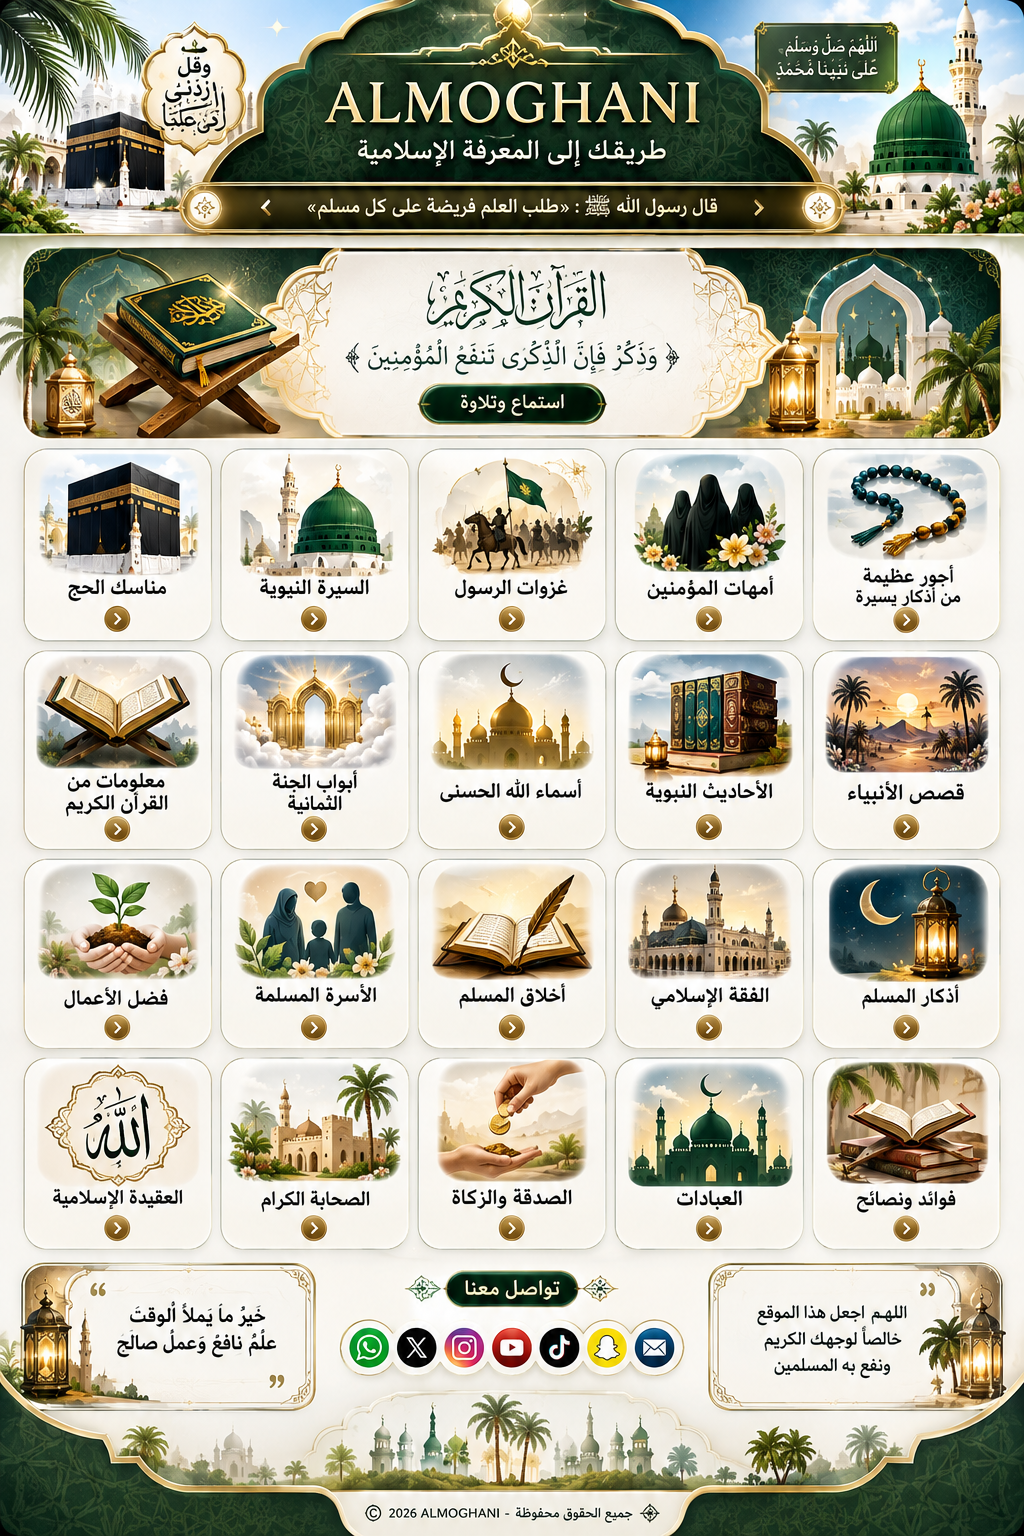
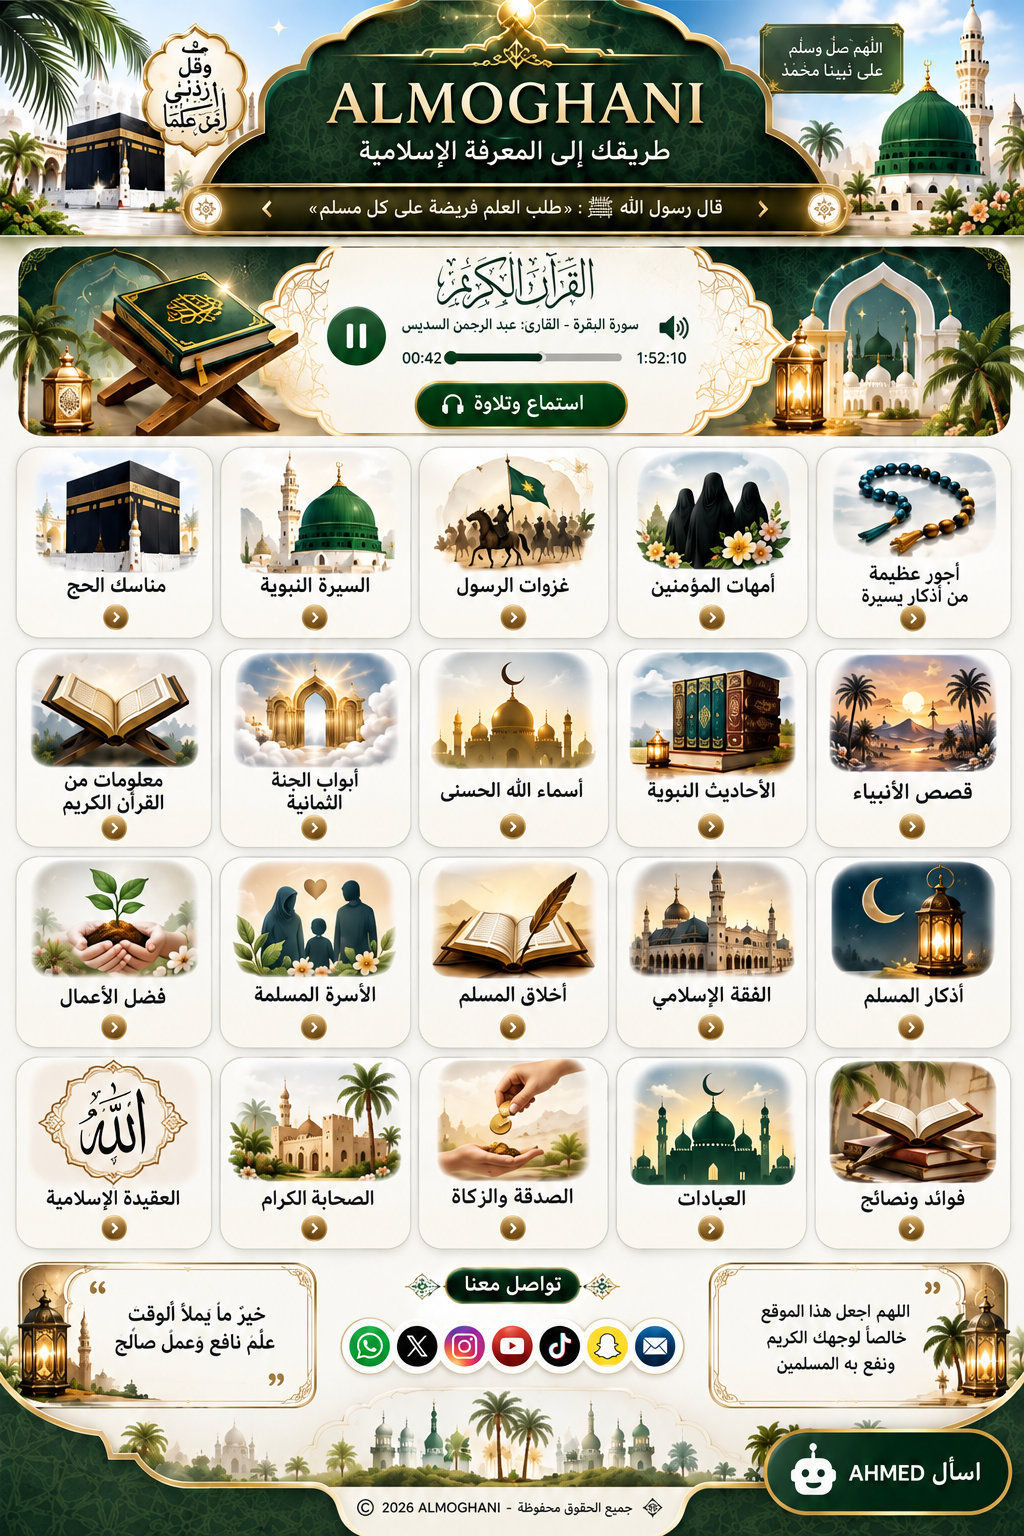
Add files via upload

Changed region(s): [[0.0, 0.0, 1.0, 1.0], [0.0, 0.9688, 0.0312, 1.0], [0.0, 0.375, 0.0312, 0.4062]]

diff --git a/index.html b/index.html
@@ -10,64 +10,44 @@ html,body{margin:0;background:#f5f0e6}
 main{position:relative;width:min(100%,1024px);margin:auto}
 img{display:block;width:100%;height:auto}
 .hot{position:absolute;display:block;z-index:5;border-radius:18px;-webkit-tap-highlight-color:transparent}
-.hot:focus{outline:2px solid rgba(194,145,40,.55);outline-offset:-2px}
-.ai-chat-btn{position:fixed;right:18px;bottom:18px;z-index:9999;display:flex;align-items:center;gap:8px;padding:12px 17px;border:2px solid #c29128;border-radius:999px;background:#07583f;color:#fff;text-decoration:none;font:700 15px Tahoma,Arial,sans-serif;box-shadow:0 8px 24px rgba(0,0,0,.22);-webkit-tap-highlight-color:transparent}
-.ai-chat-btn:active{transform:scale(.97)}
-.ai-chat-btn .icon{font-size:20px}
+.ai-chat-btn{position:fixed;right:18px;bottom:18px;z-index:9999;display:flex;align-items:center;gap:8px;padding:12px 17px;border:2px solid #c29128;border-radius:999px;background:#07583f;color:#fff;text-decoration:none;font:700 15px Tahoma,Arial,sans-serif;box-shadow:0 8px 24px rgba(0,0,0,.22)}
 </style>
 </head>
-<body><main>
+<body>
+<main>
 <img src="design.png" alt="ALMOGHANI">
-<a class="hot" href="section-01.html" aria-label="القسم 1" style="left:2.4%;top:29.3%;width:18.3%;height:12.3%"></a>
-<a class="hot" href="section-02.html" aria-label="القسم 2" style="left:21.8%;top:29.3%;width:18.3%;height:12.3%"></a>
-<a class="hot" href="section-03.html" aria-label="القسم 3" style="left:41.2%;top:29.3%;width:18.3%;height:12.3%"></a>
-<a class="hot" href="section-04.html" aria-label="القسم 4" style="left:60.6%;top:29.3%;width:18.3%;height:12.3%"></a>
-<a class="hot" href="section-05.html" aria-label="القسم 5" style="left:80%;top:29.3%;width:17.6%;height:12.3%"></a>
-<a class="hot" href="section-06.html" aria-label="القسم 6" style="left:2.4%;top:42.4%;width:18.3%;height:12.3%"></a>
-<a class="hot" href="section-07.html" aria-label="القسم 7" style="left:21.8%;top:42.4%;width:18.3%;height:12.3%"></a>
-<a class="hot" href="section-08.html" aria-label="القسم 8" style="left:41.2%;top:42.4%;width:18.3%;height:12.3%"></a>
-<a class="hot" href="section-09.html" aria-label="القسم 9" style="left:60.6%;top:42.4%;width:18.3%;height:12.3%"></a>
-<a class="hot" href="section-10.html" aria-label="القسم 10" style="left:80%;top:42.4%;width:17.6%;height:12.3%"></a>
-<a class="hot" href="section-11.html" aria-label="القسم 11" style="left:2.4%;top:55.8%;width:18.3%;height:12.3%"></a>
-<a class="hot" href="section-12.html" aria-label="القسم 12" style="left:21.8%;top:55.8%;width:18.3%;height:12.3%"></a>
-<a class="hot" href="section-13.html" aria-label="القسم 13" style="left:41.2%;top:55.8%;width:18.3%;height:12.3%"></a>
-<a class="hot" href="section-14.html" aria-label="القسم 14" style="left:60.6%;top:55.8%;width:18.3%;height:12.3%"></a>
-<a class="hot" href="section-15.html" aria-label="القسم 15" style="left:80%;top:55.8%;width:17.6%;height:12.3%"></a>
-<a class="hot" href="section-16.html" aria-label="القسم 16" style="left:2.4%;top:69%;width:18.3%;height:12.3%"></a>
-<a class="hot" href="section-17.html" aria-label="القسم 17" style="left:21.8%;top:69%;width:18.3%;height:12.3%"></a>
-<a class="hot" href="section-18.html" aria-label="القسم 18" style="left:41.2%;top:69%;width:18.3%;height:12.3%"></a>
-<a class="hot" href="section-19.html" aria-label="القسم 19" style="left:60.6%;top:69%;width:18.3%;height:12.3%"></a>
-<a class="hot" href="section-20.html" aria-label="القسم 20" style="left:80%;top:69%;width:17.6%;height:12.3%"></a>
-<a class="hot" href="quran.html" aria-label="القرآن الكريم" style="left:23%;top:16%;width:54%;height:12.5%"></a>
-<a class="hot" href="https://wa.me/966557073007" aria-label="واتساب" style="left:33%;top:84.2%;width:5%;height:4%"></a>
-<a class="hot" href="https://x.com/op430" aria-label="X" style="left:38.5%;top:84.2%;width:5%;height:4%"></a>
-<a class="hot" href="https://instagram.com/aaaaa287769" aria-label="إنستجرام" style="left:44%;top:84.2%;width:5%;height:4%"></a>
-<a class="hot" href="mailto:ahmed@almoghani.net" aria-label="البريد الإلكتروني" style="left:65.5%;top:84.2%;width:5%;height:4%"></a>
+<a class="hot" href="#" id="quranPlay" aria-label="تشغيل أو إيقاف سورة البقرة" style="left:23%;top:16%;width:54%;height:12.5%"></a>
+<a class="hot" href="section-01.html" style="left:2.4%;top:29.3%;width:18.3%;height:12.3%"></a>
+<a class="hot" href="section-02.html" style="left:21.8%;top:29.3%;width:18.3%;height:12.3%"></a>
+<a class="hot" href="section-03.html" style="left:41.2%;top:29.3%;width:18.3%;height:12.3%"></a>
+<a class="hot" href="section-04.html" style="left:60.6%;top:29.3%;width:18.3%;height:12.3%"></a>
+<a class="hot" href="section-05.html" style="left:80%;top:29.3%;width:17.6%;height:12.3%"></a>
+<a class="hot" href="section-06.html" style="left:2.4%;top:42.4%;width:18.3%;height:12.3%"></a>
+<a class="hot" href="section-07.html" style="left:21.8%;top:42.4%;width:18.3%;height:12.3%"></a>
+<a class="hot" href="section-08.html" style="left:41.2%;top:42.4%;width:18.3%;height:12.3%"></a>
+<a class="hot" href="section-09.html" style="left:60.6%;top:42.4%;width:18.3%;height:12.3%"></a>
+<a class="hot" href="section-10.html" style="left:80%;top:42.4%;width:17.6%;height:12.3%"></a>
+<a class="hot" href="section-11.html" style="left:2.4%;top:55.8%;width:18.3%;height:12.3%"></a>
+<a class="hot" href="section-12.html" style="left:21.8%;top:55.8%;width:18.3%;height:12.3%"></a>
+<a class="hot" href="section-13.html" style="left:41.2%;top:55.8%;width:18.3%;height:12.3%"></a>
+<a class="hot" href="section-14.html" style="left:60.6%;top:55.8%;width:18.3%;height:12.3%"></a>
+<a class="hot" href="section-15.html" style="left:80%;top:55.8%;width:17.6%;height:12.3%"></a>
+<a class="hot" href="section-16.html" style="left:2.4%;top:69%;width:18.3%;height:12.3%"></a>
+<a class="hot" href="section-17.html" style="left:21.8%;top:69%;width:18.3%;height:12.3%"></a>
+<a class="hot" href="section-18.html" style="left:41.2%;top:69%;width:18.3%;height:12.3%"></a>
+<a class="hot" href="section-19.html" style="left:60.6%;top:69%;width:18.3%;height:12.3%"></a>
+<a class="hot" href="section-20.html" style="left:80%;top:69%;width:17.6%;height:12.3%"></a>
 </main>
-<a class="ai-chat-btn" href="https://chatgpt.com/" target="_blank" rel="noopener noreferrer" aria-label="اسأل AHMED"><span class="icon">🤖</span><span>اسأل AHMED</span></a>
-<audio id="quranAudio" preload="auto" loop playsinline>
-  <source src="quran.mp3" type="audio/mpeg">
-</audio>
+<a class="ai-chat-btn" href="https://chatgpt.com/" target="_blank" rel="noopener"><span>🤖</span><span>اسأل AHMED</span></a>
+<audio id="quranAudio" preload="metadata" playsinline><source src="quran.mp3" type="audio/mpeg"></audio>
 <script>
-(function(){
-  const audio=document.getElementById('quranAudio');
-  let started=false;
-  function startAudio(){
-    if(started) return;
-    audio.volume=0.65;
-    const p=audio.play();
-    if(p && typeof p.then==='function'){
-      p.then(()=>{started=true;cleanup();}).catch(()=>{});
-    }
-  }
-  function cleanup(){
-    document.removeEventListener('touchstart',startAudio,true);
-    document.removeEventListener('pointerdown',startAudio,true);
-    document.removeEventListener('click',startAudio,true);
-  }
-  document.addEventListener('touchstart',startAudio,true);
-  document.addEventListener('pointerdown',startAudio,true);
-  document.addEventListener('click',startAudio,true);
-})();
+const audio=document.getElementById('quranAudio');
+const quranPlay=document.getElementById('quranPlay');
+audio.volume=.65;
+quranPlay.addEventListener('click',function(e){
+ e.preventDefault();
+ if(audio.paused){audio.play().catch(()=>{});}else{audio.pause();}
+});
 </script>
-</body></html>
+</body>
+</html>
